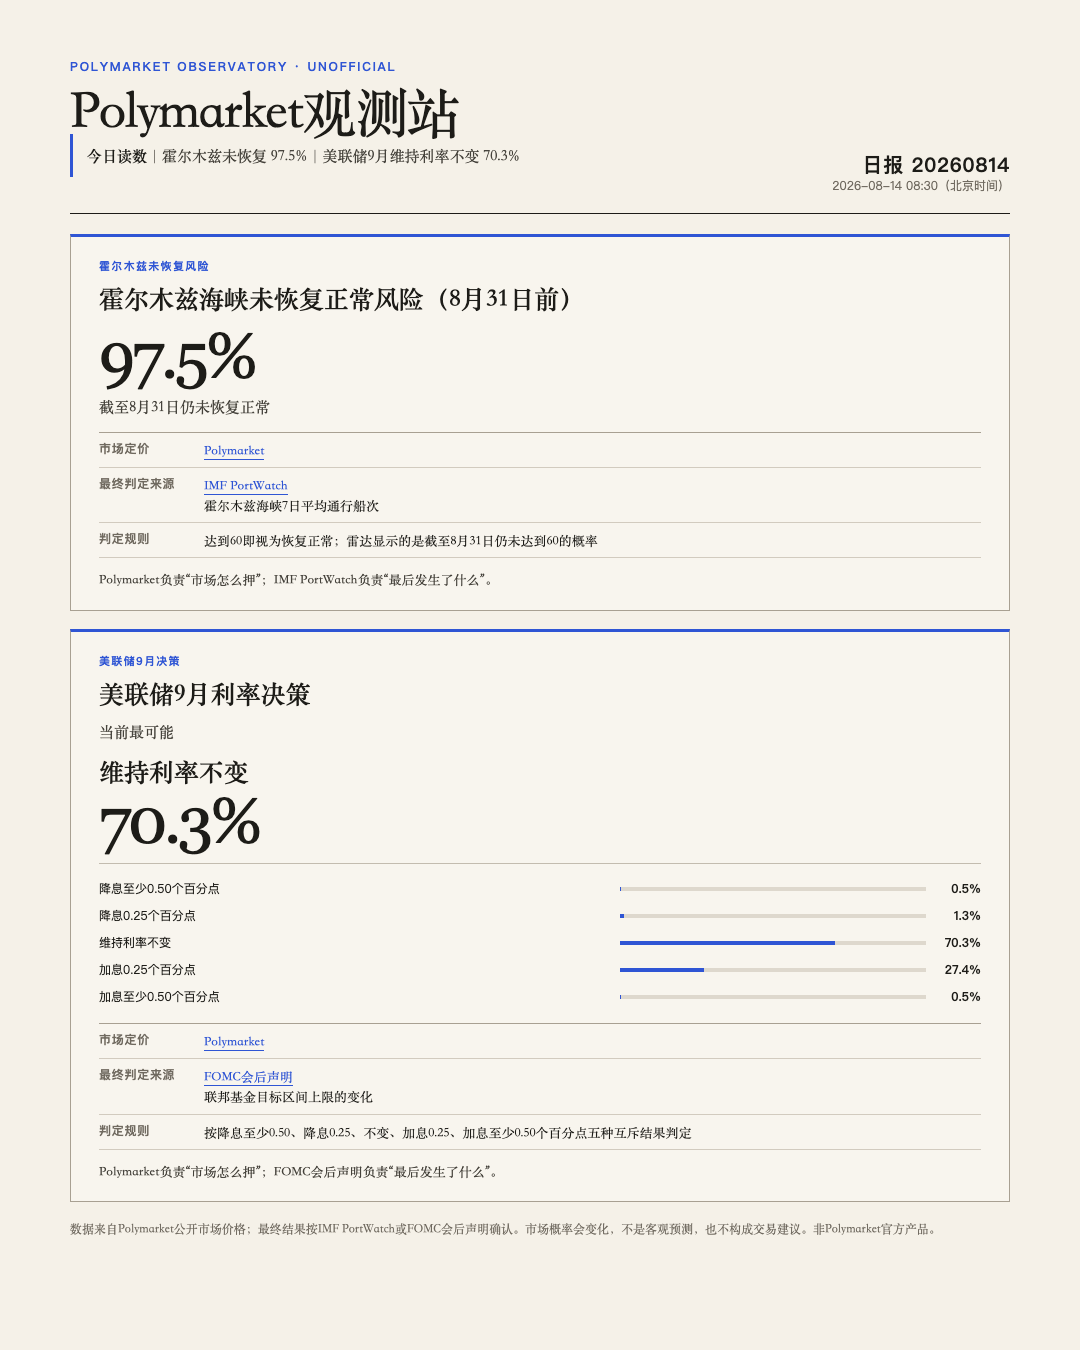
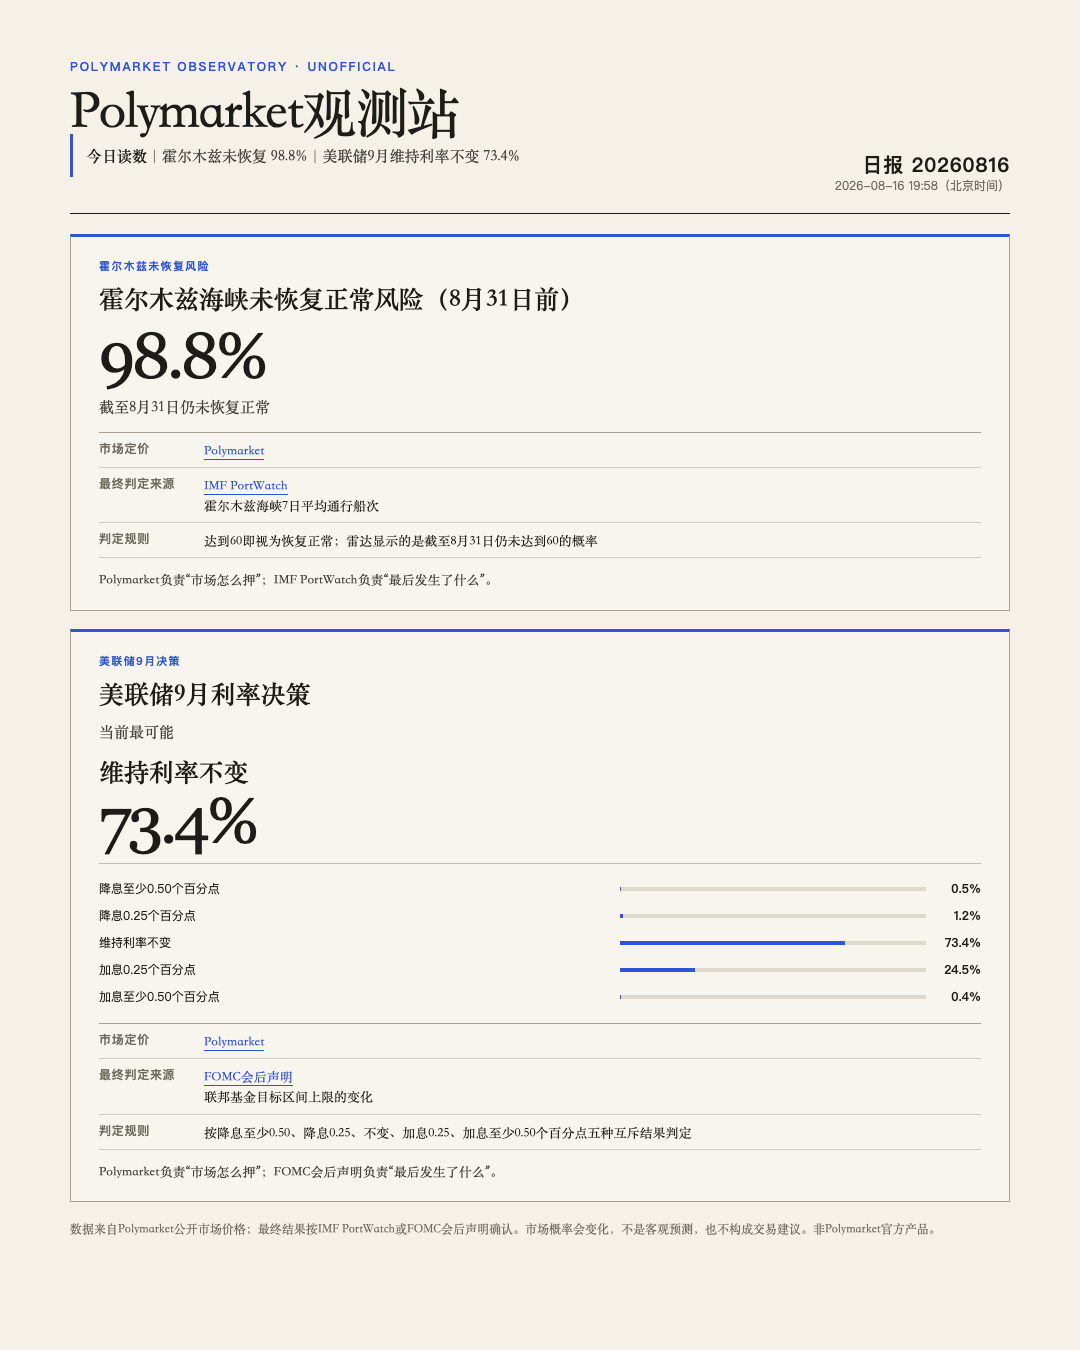
Refresh event radar daily snapshot

Changed region(s): [[0.1222, 0.5911, 0.2444, 0.6533], [0.1222, 0.2489, 0.2444, 0.3111], [0.7639, 0.1244, 0.825, 0.1556]]

diff --git a/event-radar/index.html b/event-radar/index.html
@@ -26,8 +26,8 @@
 <meta property="og:site_name" content="Lei Deng">
 <meta property="og:description" content="非官方的Polymarket事件概率观测页，跟踪霍尔木兹海峡风险与美联储利率决策。">
 <meta property="og:locale" content="en_US">
-<meta property="article:published_time" content="2026-08-14T00:30:23.475Z">
-<meta property="article:modified_time" content="2026-08-14T00:30:23.475Z">
+<meta property="article:published_time" content="2026-08-16T12:01:50.612Z">
+<meta property="article:modified_time" content="2026-08-16T12:01:50.612Z">
 <meta property="article:author" content="Lei Deng">
 <meta property="article:tag" content="AI">
 <meta property="article:tag" content="Japan">
@@ -292,10 +292,10 @@
 </style>
 <main class="radar-shell" aria-labelledby="radar-title">
   <header class="radar-head">
-    <div><p class="radar-kicker">Polymarket Observatory · Unofficial</p><h1 id="radar-title">Polymarket观测站</h1><p class="radar-summary"><strong>今日读数</strong>｜霍尔木兹未恢复 97.5%｜美联储9月维持利率不变 70.3%</p></div>
-    <p class="radar-time"><strong>日报 20260814</strong><br><small>2026-08-14 08:30（北京时间）</small></p>
+    <div><p class="radar-kicker">Polymarket Observatory · Unofficial</p><h1 id="radar-title">Polymarket观测站</h1><p class="radar-summary"><strong>今日读数</strong>｜霍尔木兹未恢复 98.8%｜美联储9月维持利率不变 73.4%</p></div>
+    <p class="radar-time"><strong>日报 20260816</strong><br><small>2026-08-16 19:58（北京时间）</small></p>
   </header>
-  <div class="radar-grid"><article class="radar-event"><p class="radar-eyebrow">霍尔木兹未恢复风险</p><h2>霍尔木兹海峡未恢复正常风险（8月31日前）</h2><p class="radar-number">97.5%</p><p class="radar-question">截至8月31日仍未恢复正常</p><dl class="radar-method"><div><dt>市场定价</dt><dd><a href="https://polymarket.com/event/strait-of-hormuz-traffic-returns-to-normal-by-august-31-20260702154212320" target="_blank" rel="noopener">Polymarket</a></dd></div><div><dt>最终判定来源</dt><dd><a href="https://portwatch.imf.org/pages/cb5856222a5b4105adc6ee7e880a1730" target="_blank" rel="noopener">IMF PortWatch</a><br>霍尔木兹海峡7日平均通行船次</dd></div><div><dt>判定规则</dt><dd>达到60即视为恢复正常；雷达显示的是截至8月31日仍未达到60的概率</dd></div></dl><p class="radar-explainer">Polymarket负责“市场怎么押”；IMF PortWatch负责“最后发生了什么”。</p></article><article class="radar-event"><p class="radar-eyebrow">美联储9月决策</p><h2>美联储9月利率决策</h2><p class="radar-question">当前最可能</p><p class="radar-leader">维持利率不变</p><p class="radar-number">70.3%</p><ol class="radar-outcomes" aria-label="五个互斥结果，合计100%"><li><span>降息至少0.50个百分点</span><span class="radar-outcome-track" aria-hidden="true"><span style="width:0.5%"></span></span><strong>0.5%</strong></li><li><span>降息0.25个百分点</span><span class="radar-outcome-track" aria-hidden="true"><span style="width:1.3%"></span></span><strong>1.3%</strong></li><li><span>维持利率不变</span><span class="radar-outcome-track" aria-hidden="true"><span style="width:70.3%"></span></span><strong>70.3%</strong></li><li><span>加息0.25个百分点</span><span class="radar-outcome-track" aria-hidden="true"><span style="width:27.4%"></span></span><strong>27.4%</strong></li><li><span>加息至少0.50个百分点</span><span class="radar-outcome-track" aria-hidden="true"><span style="width:0.5%"></span></span><strong>0.5%</strong></li></ol><dl class="radar-method"><div><dt>市场定价</dt><dd><a href="https://polymarket.com/event/fed-decision-in-september-762" target="_blank" rel="noopener">Polymarket</a></dd></div><div><dt>最终判定来源</dt><dd><a href="https://www.federalreserve.gov/monetarypolicy/fomccalendars.htm" target="_blank" rel="noopener">FOMC会后声明</a><br>联邦基金目标区间上限的变化</dd></div><div><dt>判定规则</dt><dd>按降息至少0.50、降息0.25、不变、加息0.25、加息至少0.50个百分点五种互斥结果判定</dd></div></dl><p class="radar-explainer">Polymarket负责“市场怎么押”；FOMC会后声明负责“最后发生了什么”。</p></article></div>
+  <div class="radar-grid"><article class="radar-event"><p class="radar-eyebrow">霍尔木兹未恢复风险</p><h2>霍尔木兹海峡未恢复正常风险（8月31日前）</h2><p class="radar-number">98.8%</p><p class="radar-question">截至8月31日仍未恢复正常</p><dl class="radar-method"><div><dt>市场定价</dt><dd><a href="https://polymarket.com/event/strait-of-hormuz-traffic-returns-to-normal-by-august-31-20260702154212320" target="_blank" rel="noopener">Polymarket</a></dd></div><div><dt>最终判定来源</dt><dd><a href="https://portwatch.imf.org/pages/cb5856222a5b4105adc6ee7e880a1730" target="_blank" rel="noopener">IMF PortWatch</a><br>霍尔木兹海峡7日平均通行船次</dd></div><div><dt>判定规则</dt><dd>达到60即视为恢复正常；雷达显示的是截至8月31日仍未达到60的概率</dd></div></dl><p class="radar-explainer">Polymarket负责“市场怎么押”；IMF PortWatch负责“最后发生了什么”。</p></article><article class="radar-event"><p class="radar-eyebrow">美联储9月决策</p><h2>美联储9月利率决策</h2><p class="radar-question">当前最可能</p><p class="radar-leader">维持利率不变</p><p class="radar-number">73.4%</p><ol class="radar-outcomes" aria-label="五个互斥结果，合计100%"><li><span>降息至少0.50个百分点</span><span class="radar-outcome-track" aria-hidden="true"><span style="width:0.5%"></span></span><strong>0.5%</strong></li><li><span>降息0.25个百分点</span><span class="radar-outcome-track" aria-hidden="true"><span style="width:1.2%"></span></span><strong>1.2%</strong></li><li><span>维持利率不变</span><span class="radar-outcome-track" aria-hidden="true"><span style="width:73.4%"></span></span><strong>73.4%</strong></li><li><span>加息0.25个百分点</span><span class="radar-outcome-track" aria-hidden="true"><span style="width:24.5%"></span></span><strong>24.5%</strong></li><li><span>加息至少0.50个百分点</span><span class="radar-outcome-track" aria-hidden="true"><span style="width:0.4%"></span></span><strong>0.4%</strong></li></ol><dl class="radar-method"><div><dt>市场定价</dt><dd><a href="https://polymarket.com/event/fed-decision-in-september-762" target="_blank" rel="noopener">Polymarket</a></dd></div><div><dt>最终判定来源</dt><dd><a href="https://www.federalreserve.gov/monetarypolicy/fomccalendars.htm" target="_blank" rel="noopener">FOMC会后声明</a><br>联邦基金目标区间上限的变化</dd></div><div><dt>判定规则</dt><dd>按降息至少0.50、降息0.25、不变、加息0.25、加息至少0.50个百分点五种互斥结果判定</dd></div></dl><p class="radar-explainer">Polymarket负责“市场怎么押”；FOMC会后声明负责“最后发生了什么”。</p></article></div>
 
   <div class="radar-actions" aria-label="分享选项">
     <button class="radar-action" type="button" data-radar-share>分享页面</button>
@@ -307,7 +307,7 @@
 </main>
 <script>
 (() => {
-  const text = "Polymarket观测站｜日报 20260814\n今日读数：\n霍尔木兹：截至8月31日仍未恢复正常 97.5%\n美联储9月：维持利率不变 70.3%\n五个互斥结果：降息至少0.50个百分点 0.5%；降息0.25个百分点 1.3%；维持利率不变 70.3%；加息0.25个百分点 27.4%；加息至少0.50个百分点 0.5%\n概率来自Polymarket；最终结果按各事件的独立判定指标确认。\n仅反映市场当时预期，不构成交易建议。\n非Polymarket官方产品。\nhttps://terazadl.github.io/event-radar/";
+  const text = "Polymarket观测站｜日报 20260816\n今日读数：\n霍尔木兹：截至8月31日仍未恢复正常 98.8%\n美联储9月：维持利率不变 73.4%\n五个互斥结果：降息至少0.50个百分点 0.5%；降息0.25个百分点 1.2%；维持利率不变 73.4%；加息0.25个百分点 24.5%；加息至少0.50个百分点 0.4%\n概率来自Polymarket；最终结果按各事件的独立判定指标确认。\n仅反映市场当时预期，不构成交易建议。\n非Polymarket官方产品。\nhttps://terazadl.github.io/event-radar/";
   const title = "Polymarket观测站｜霍尔木兹与美联储";
   const status = document.querySelector('.radar-status');
   const setStatus = value => { if (status) status.textContent = value; };
